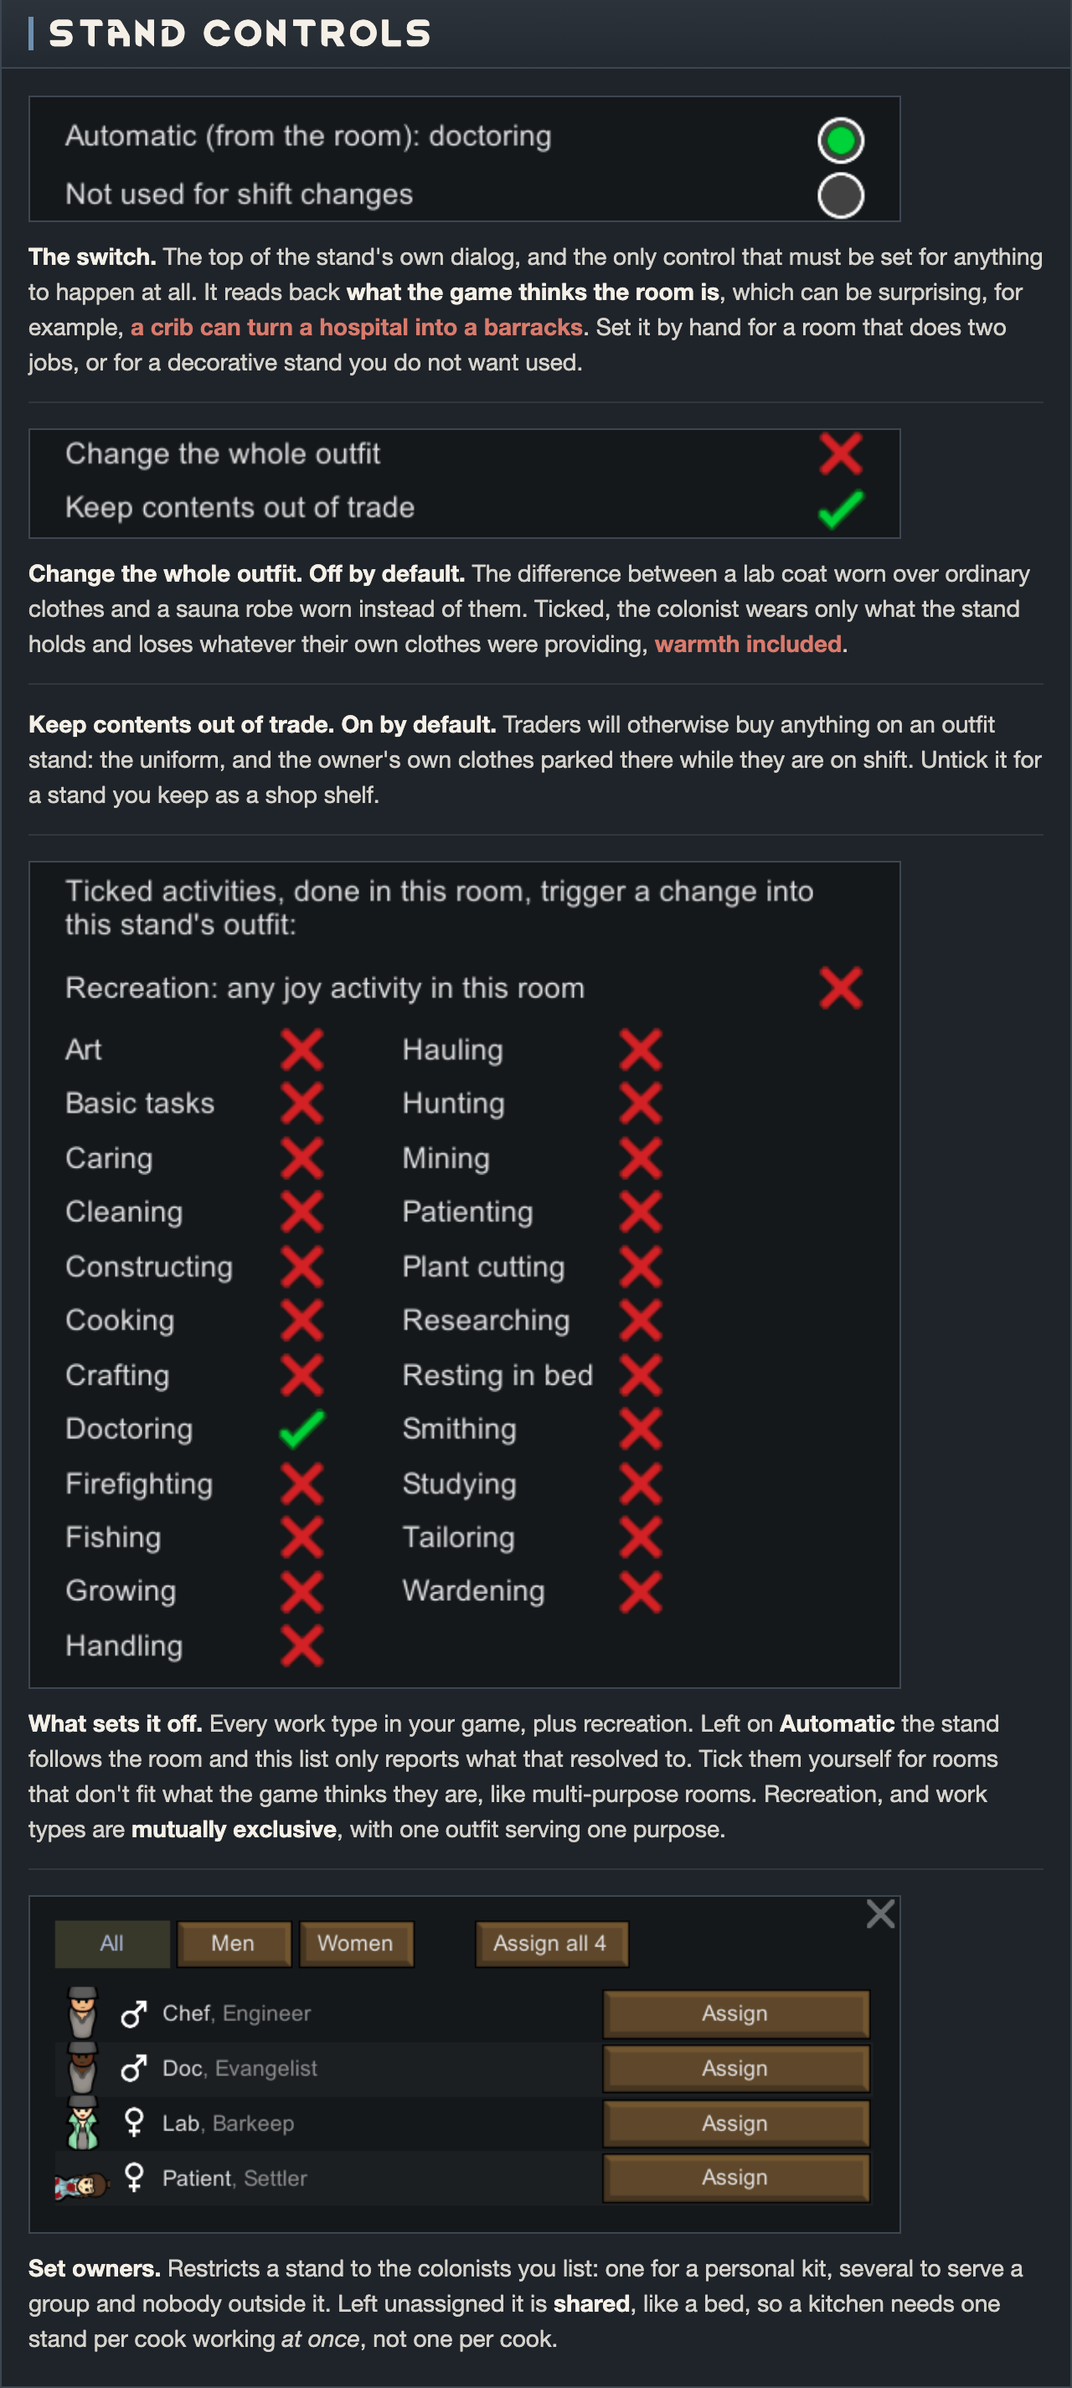
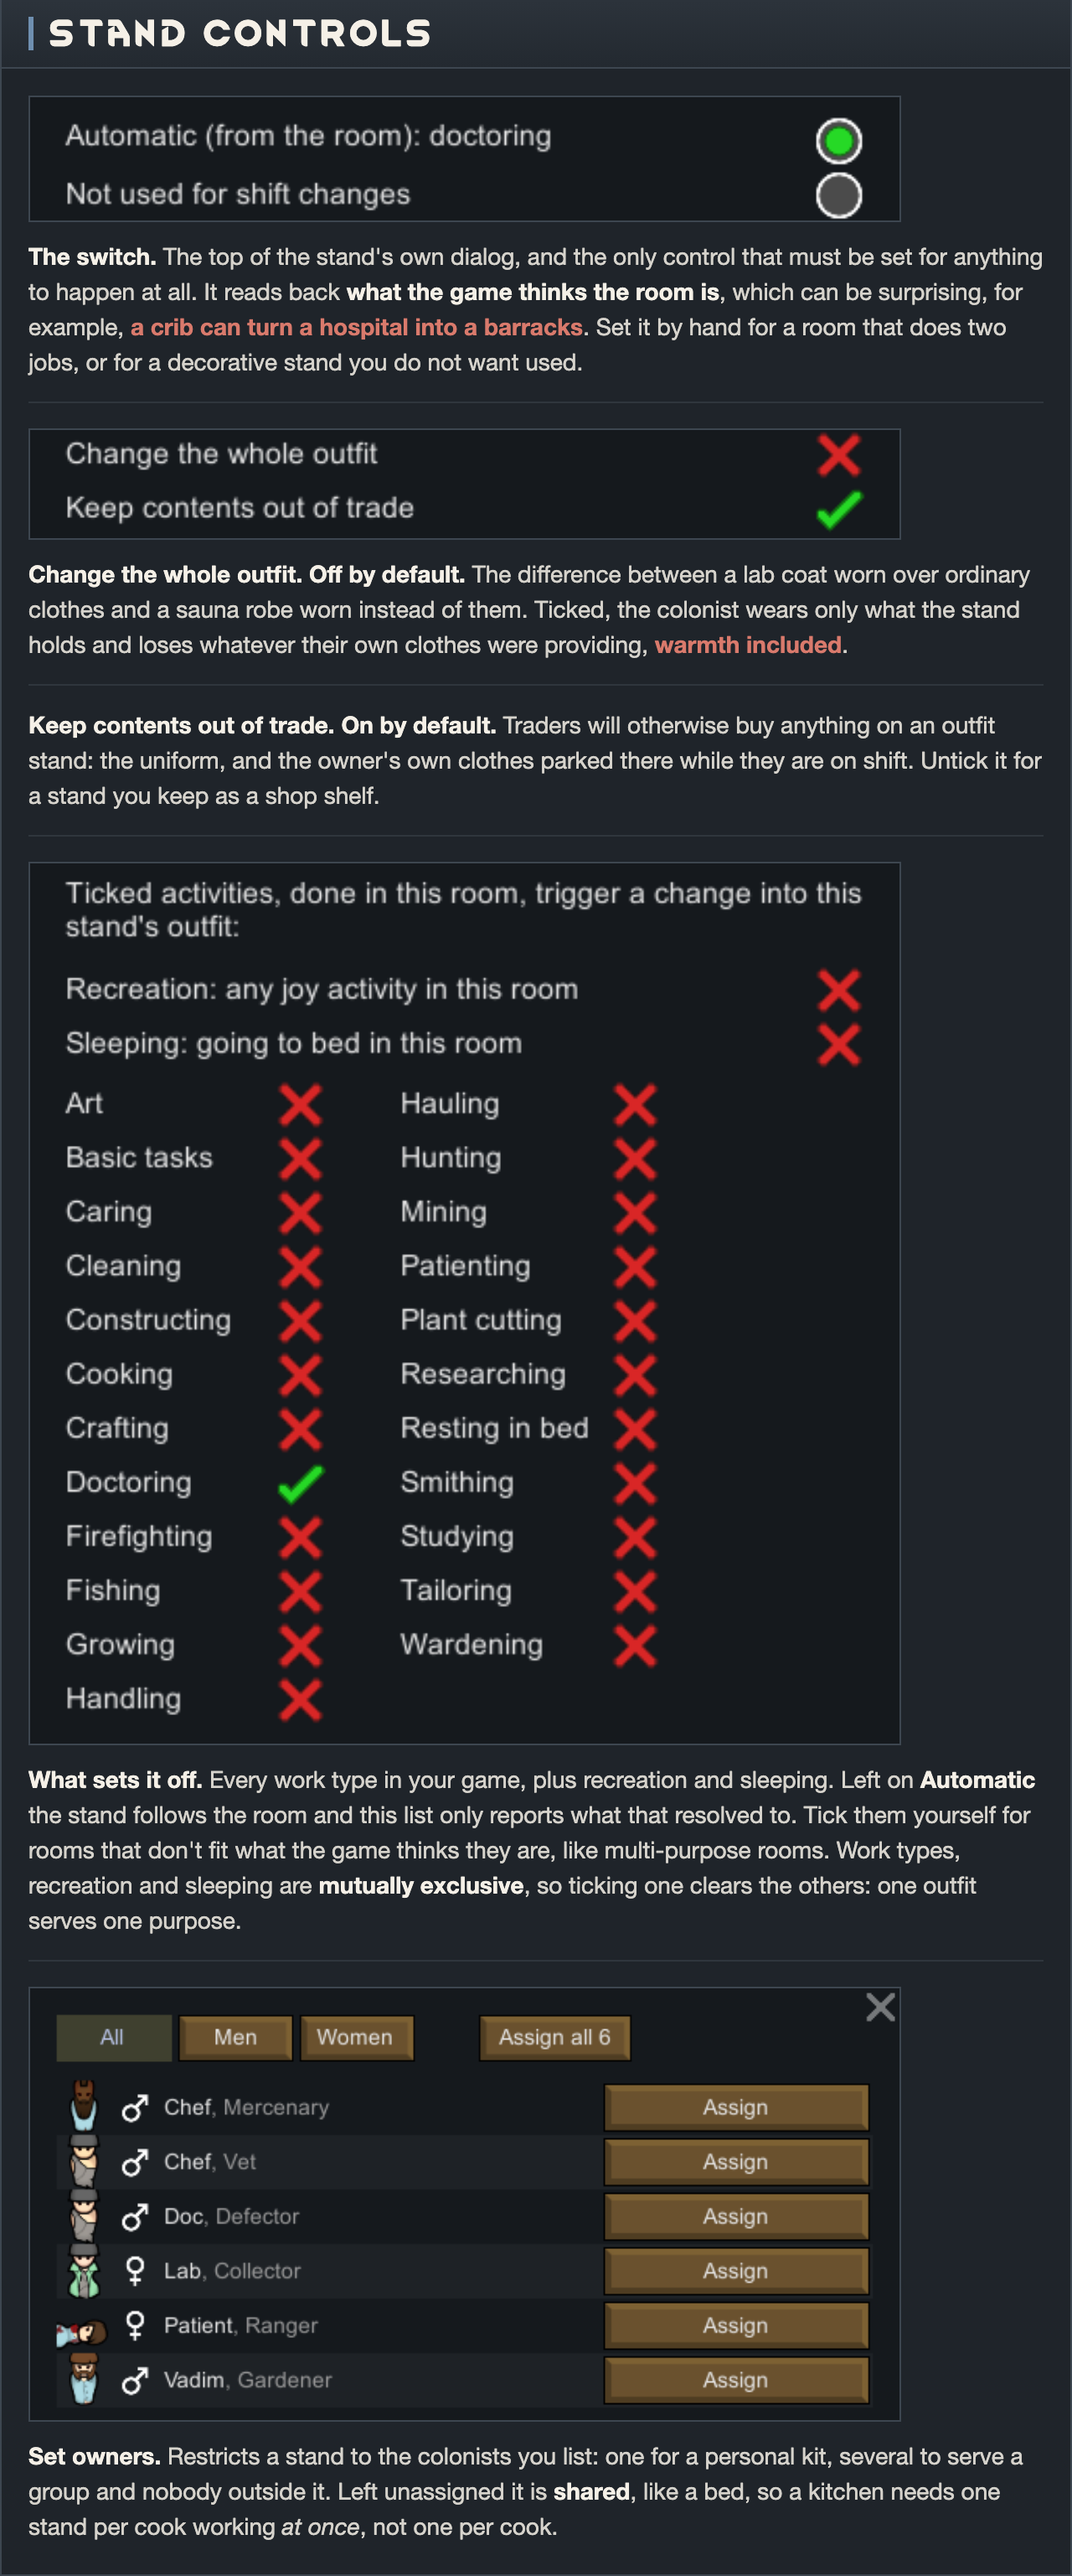
📝 Re-cut the stand controls card for the sleep row

Changed region(s): [[0.0312, 0.0, 0.9688, 0.9996]]

diff --git a/media/card-mockup.py b/media/card-mockup.py
@@ -232,12 +232,13 @@ CARDS = [
             {
                 "shot": "cards/parts/sec-activities.png",
                 "lead": "What sets it off",
-                "body": "every work type in your game, plus recreation. Left on "
-                        "**Automatic** the stand follows the room and this list only "
-                        "reports what that resolved to. Tick them yourself for rooms that "
-                        "don't fit what the game thinks they are, like multi-purpose rooms.  " 
-                        "Recreation, and work types are **mutually exclusive**,  with one "
-                        "outfit serving one purpose.",
+                "body": "every work type in your game, plus recreation and sleeping. "
+                        "Left on **Automatic** the stand follows the room and this list "
+                        "only reports what that resolved to. Tick them yourself for rooms "
+                        "that don't fit what the game thinks they are, like multi-purpose "
+                        "rooms. Work types, recreation and sleeping are **mutually "
+                        "exclusive**, so ticking one clears the others: one outfit serves "
+                        "one purpose.",
             },
             {
                 "shot": "cards/parts/dlg-owners.png",

diff --git a/media/README.md b/media/README.md
@@ -183,7 +183,7 @@ gif; this cut favours the bookends instead.
 
 Workshop gallery images. `card-chef`, `card-doc`, `card-lab`, `card-recreation`
 and `card-sleep` are 640×360 scene shots; `card-blacktie` is a 1482×587
-three-panel sequence; `card-controls` (2000×900) and `card-tooltip` (1536×864)
+three-panel sequence; `card-controls` (1700×800) and `card-tooltip` (1536×864)
 show UI instead.
 
 `card-controls` is 1700×800 and carries three panels: the SAME work-types
